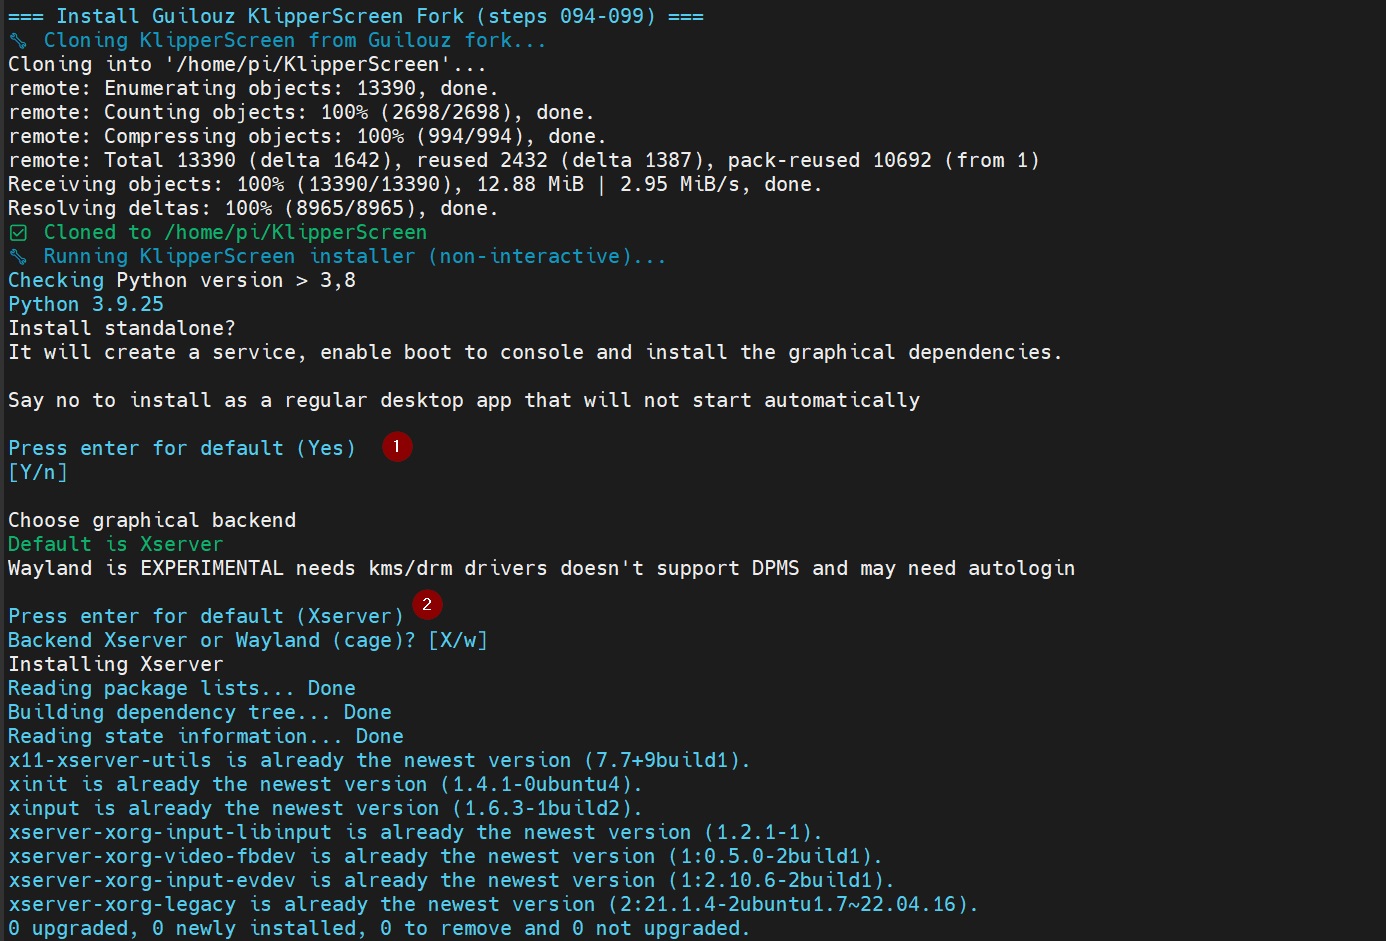
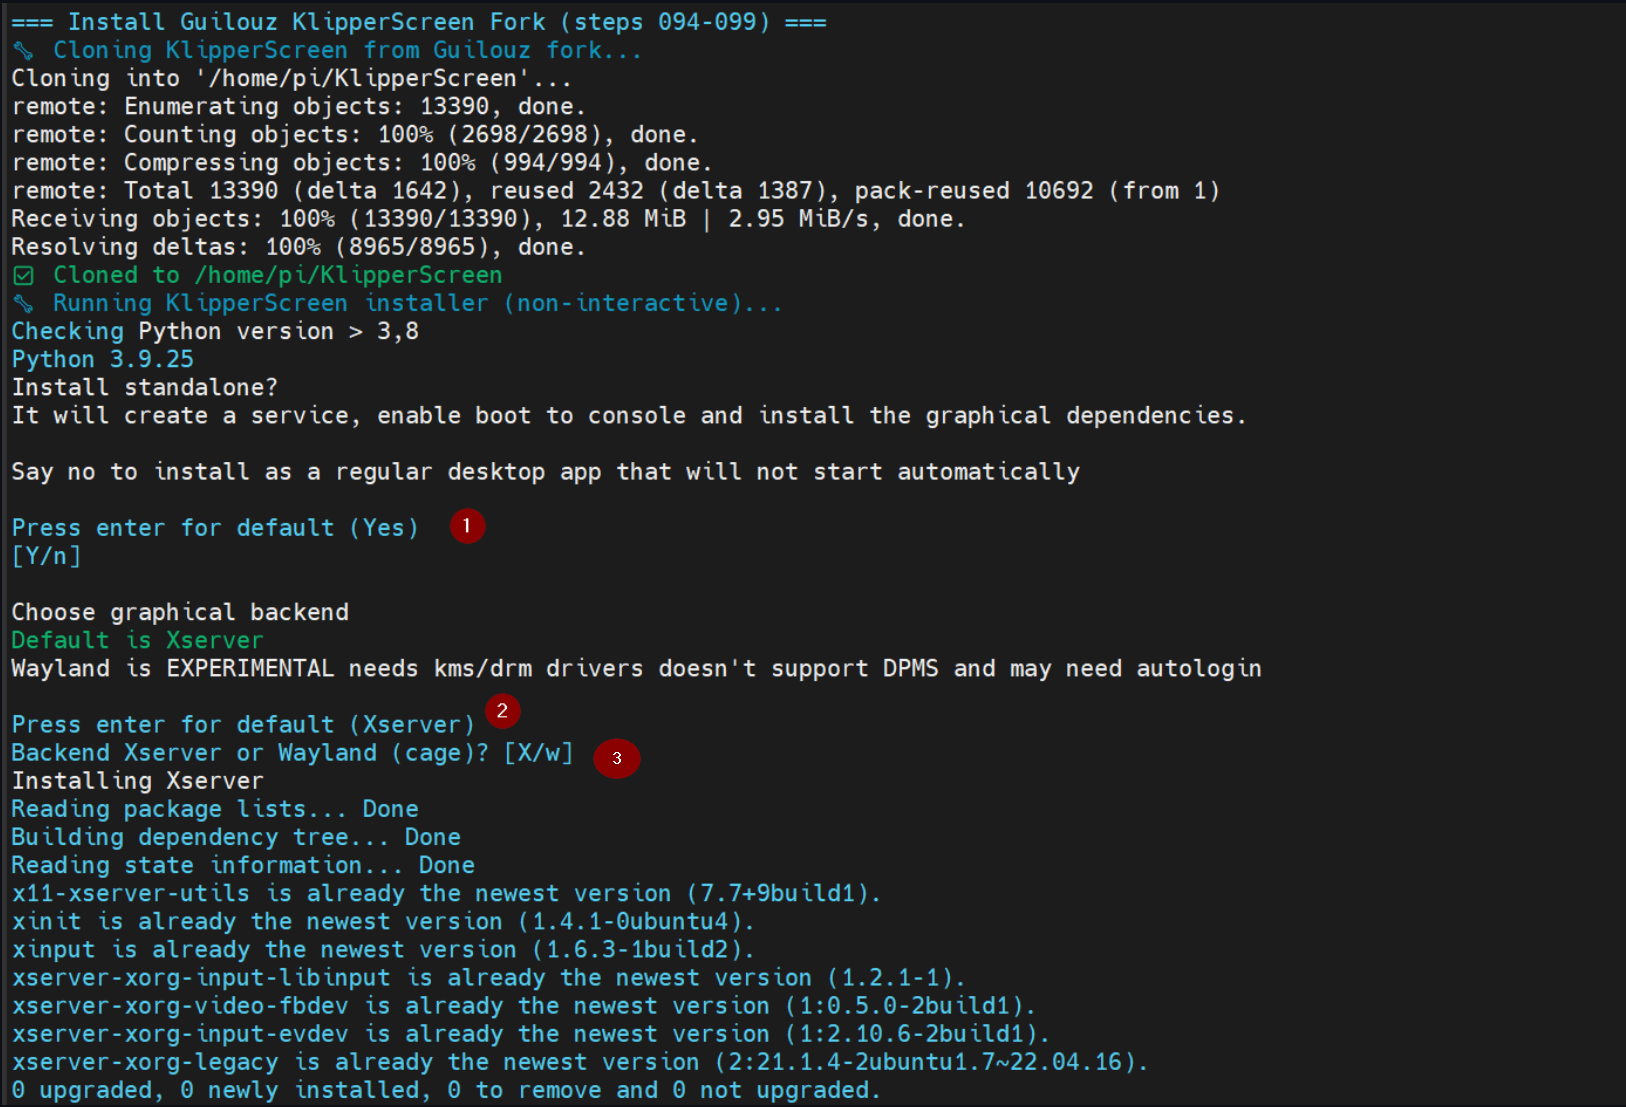
Added → configure_led_defaults

Changed region(s): [[0.0, 0.0, 0.7756, 0.6164], [0.0, 0.6472, 0.7136, 1.0]]

diff --git a/README.md b/README.md
@@ -59,11 +59,17 @@ This installer relies on the following open‑source projects:
 - **FLSUN** — Original Speeder Pad hardware and base environment  
   https://flsun3d.com
 
-  - **Samba** — File and printer sharing for Linux/Windows networks  
+- **KlipperScreen (Guilouz fork)** — Touchscreen UI for the Speeder Pad  
+  https://github.com/Guilouz/KlipperScreen-Flsun-Speeder-Pad
+
+- **Samba** — File and printer sharing for Linux/Windows networks  
   https://www.samba.org
 
 - **Webmin** — Web-based system administration interface  
   https://webmin.com
+
+- **Ubuntu update-motd** — Dynamic login banner framework (MOTD restore extra)  
+  https://manpages.ubuntu.com/manpages/jammy/man5/update-motd.5.html
 
 
 ## Additional Resources
